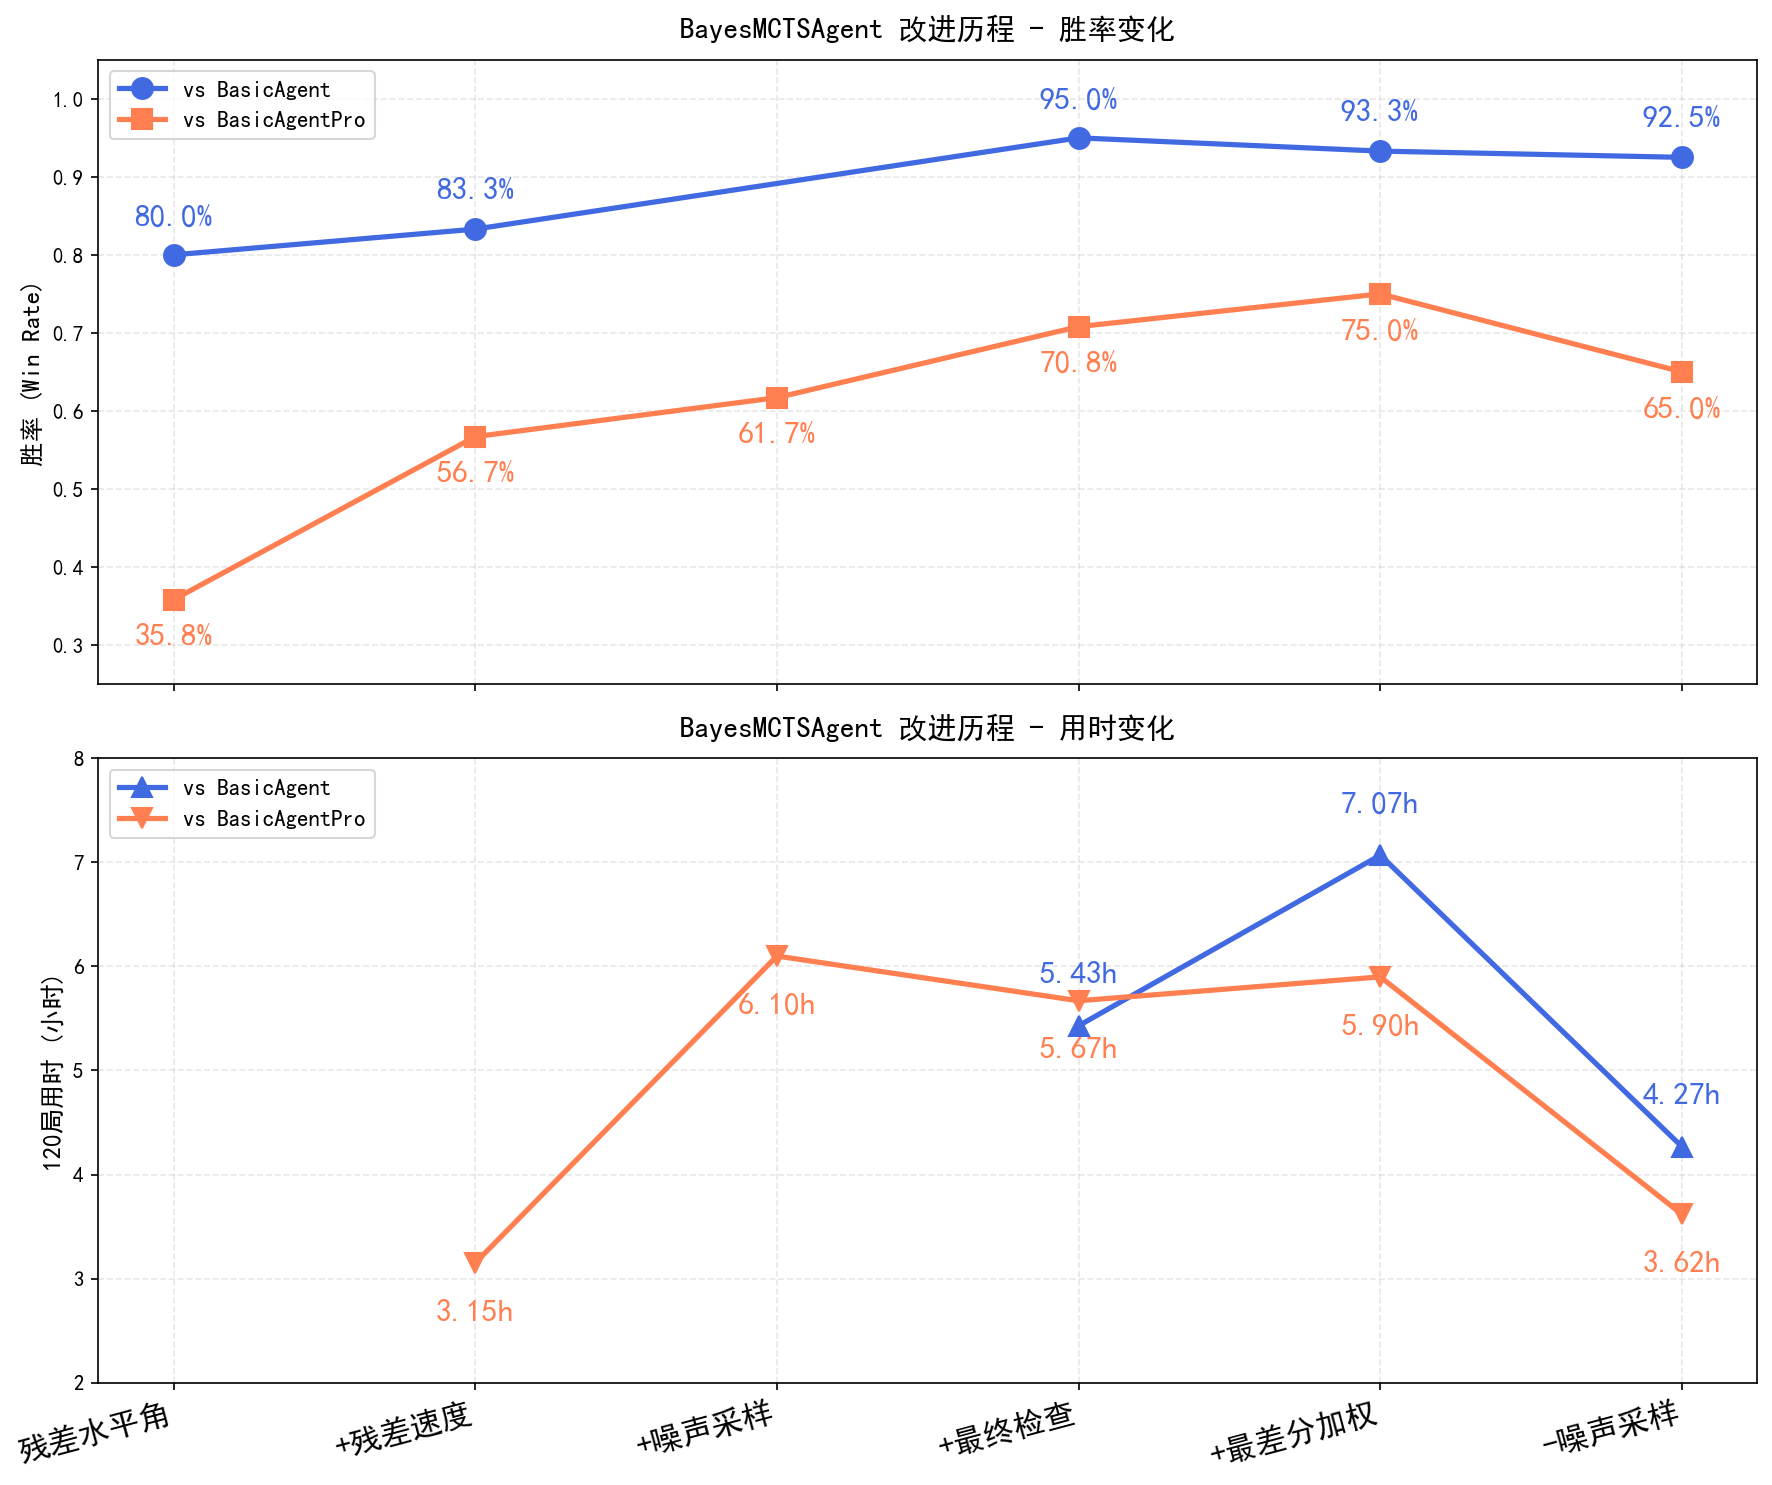
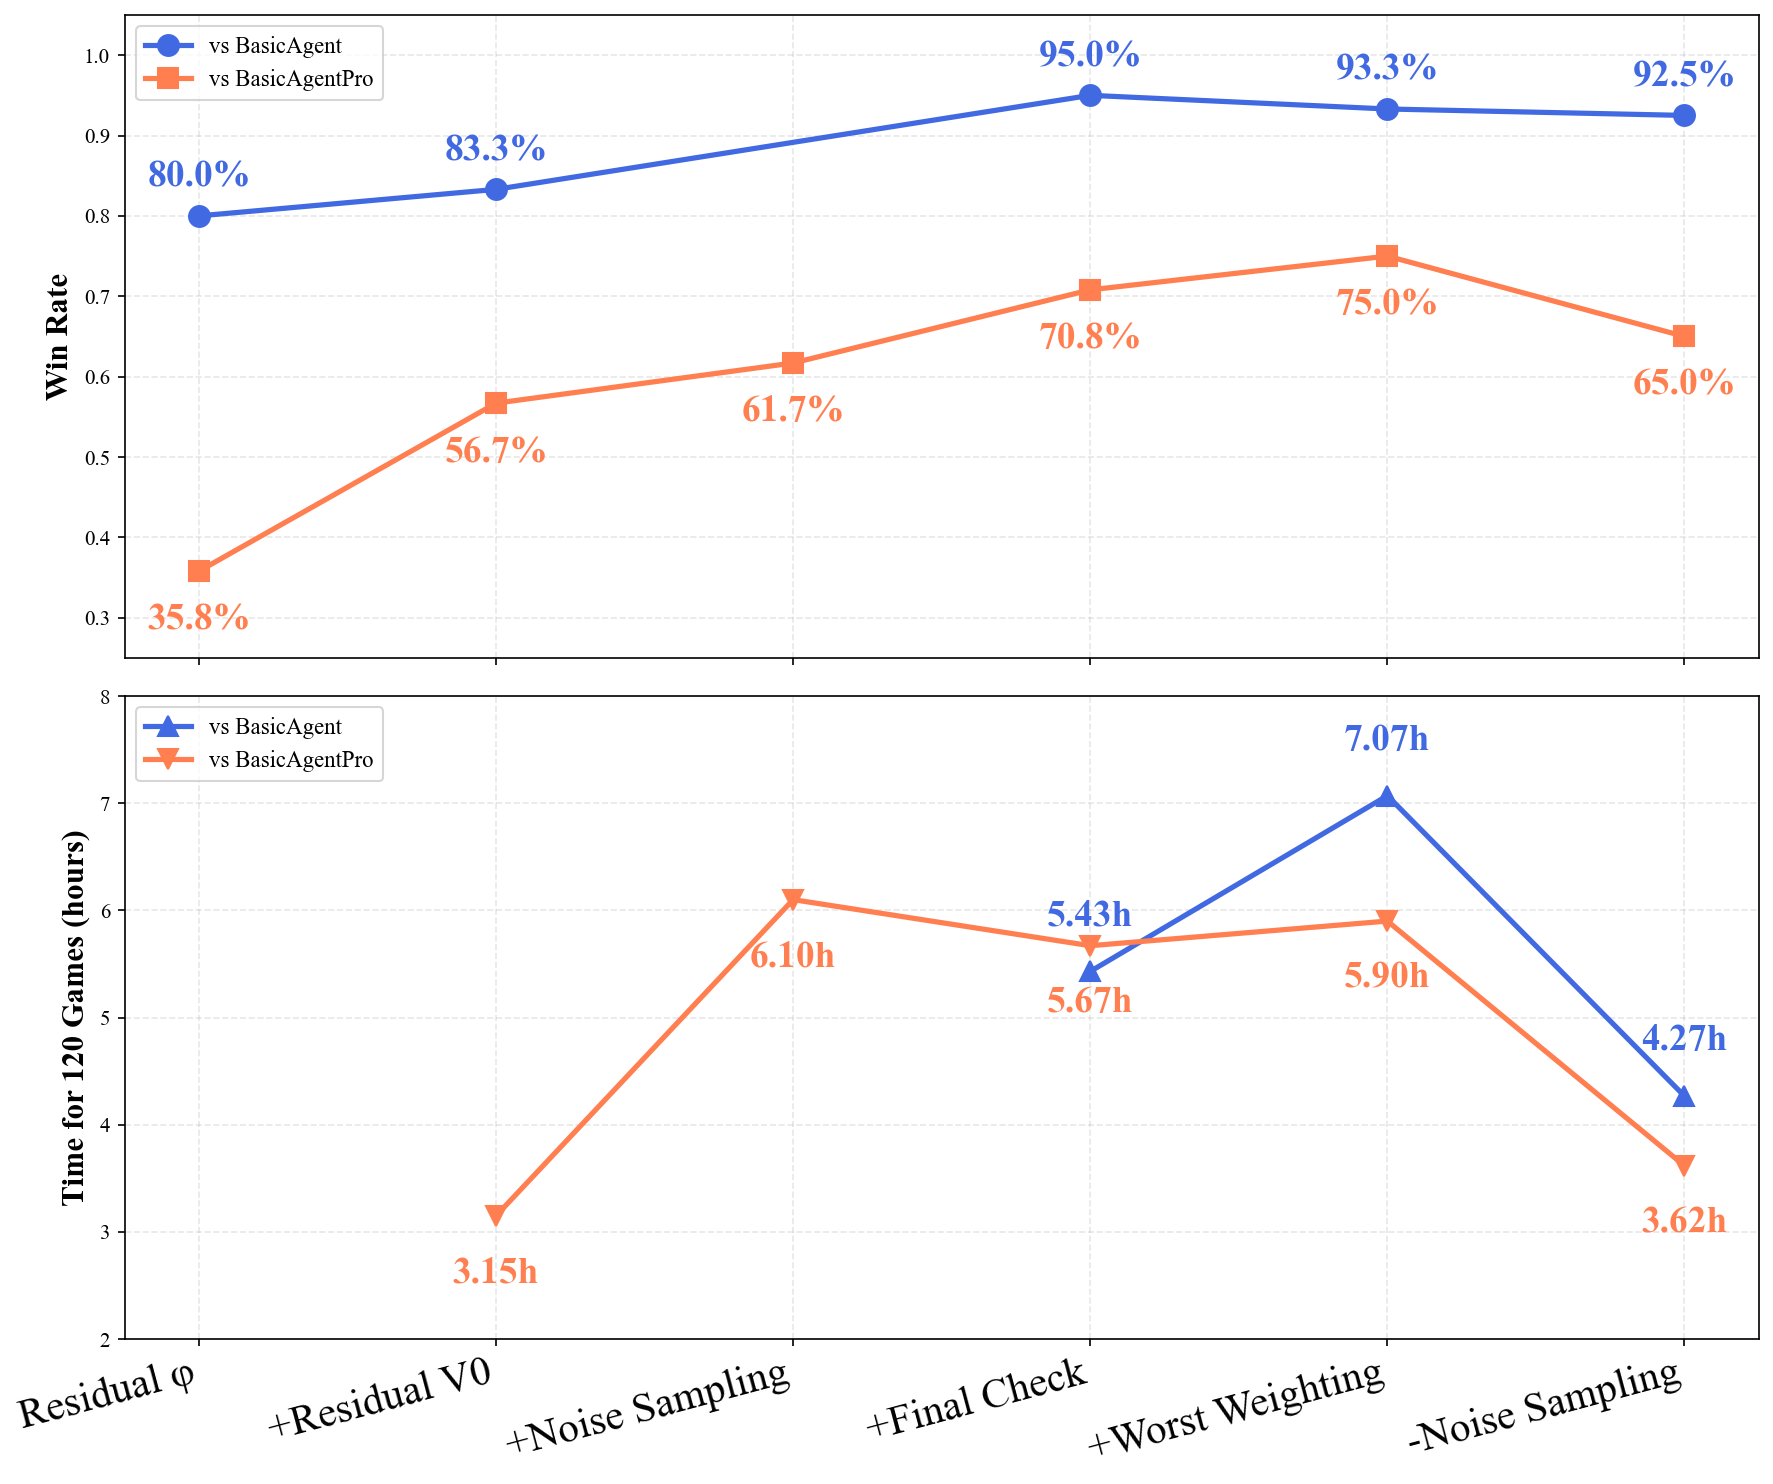
更新 README 文件，添加项目使用说明和里程图；新增分布图；优化绘图脚本，调整字体和注释格式

diff --git a/plot_progress.py b/plot_progress.py
@@ -6,18 +6,20 @@
 import matplotlib.pyplot as plt
 import numpy as np
 
-# 设置中文字体
-plt.rcParams['font.sans-serif'] = ['SimHei', 'Microsoft YaHei', 'DejaVu Sans']
+# 设置更漂亮的英文字体
+plt.rcParams['font.family'] = 'serif'
+plt.rcParams['font.serif'] = ['Times New Roman', 'DejaVu Serif', 'Georgia']
 plt.rcParams['axes.unicode_minus'] = False
+plt.rcParams['mathtext.fontset'] = 'stix'  # 数学符号使用STIX字体
 
 # x轴标签（改进版本）
 versions = [
-    "残差水平角",
-    "+残差速度", 
-    "+噪声采样",
-    "+最终检查",
-    "+最差分加权",
-    "-噪声采样"
+    "Residual φ",
+    "+Residual V0", 
+    "+Noise Sampling",
+    "+Final Check",
+    "+Worst Weighting",
+    "-Noise Sampling"
 ]
 x = np.arange(len(versions))
 
@@ -33,8 +35,7 @@ time_pro = [None, 3.15, 6.1, 5.67, 5.90, 3.617]
 fig, (ax1, ax2) = plt.subplots(2, 1, figsize=(12, 10), sharex=True)
 
 # ==================== 图1: 胜率 ====================
-ax1.set_ylabel('胜率 (Win Rate)', fontsize=12, fontweight='bold')
-ax1.set_title('BayesMCTSAgent 改进历程 - 胜率变化', fontsize=14, fontweight='bold', pad=10)
+ax1.set_ylabel('Win Rate', fontsize=15, fontweight='bold')
 
 # 绘制胜率线 - vs BasicAgent
 valid_idx_basic = [i for i, v in enumerate(win_rate_basic) if v is not None]
@@ -57,19 +58,17 @@ ax1.set_xticks(x)
 for i in valid_idx_basic:
     ax1.annotate(f'{win_rate_basic[i]:.1%}', (x[i], win_rate_basic[i]), 
                  textcoords="offset points", xytext=(0, 14), ha='center', 
-                 fontsize=15, color='royalblue', fontweight='bold')
+                 fontsize=18, color='royalblue', fontweight='bold')
 for i in valid_idx_pro:
     ax1.annotate(f'{win_rate_pro[i]:.1%}', (x[i], win_rate_pro[i]), 
-                 textcoords="offset points", xytext=(0, -22), ha='center',
-                 fontsize=15, color='coral', fontweight='bold')
+                 textcoords="offset points", xytext=(0, -28), ha='center',
+                 fontsize=18, color='coral', fontweight='bold')
 
 ax1.legend(loc='upper left', fontsize=11)
 ax1.grid(True, alpha=0.3, linestyle='--')
 
 # ==================== 图2: 用时 ====================
-ax2.set_ylabel('120局用时 (小时)', fontsize=12, fontweight='bold')
-ax2.set_title('BayesMCTSAgent 改进历程 - 用时变化', fontsize=14, fontweight='bold', pad=10)
-
+ax2.set_ylabel('Time for 120 Games (hours)', fontsize=15, fontweight='bold')
 # 绘制用时线 - vs BasicAgent
 valid_idx_time_basic = [i for i, v in enumerate(time_basic) if v is not None]
 valid_vals_time_basic = [v for v in time_basic if v is not None]
@@ -86,17 +85,17 @@ line4, = ax2.plot([x[i] for i in valid_idx_time_pro], valid_vals_time_pro,
 
 ax2.set_ylim(2, 8)
 ax2.set_xticks(x)
-ax2.set_xticklabels(versions, rotation=15, ha='right', fontsize=15)
+ax2.set_xticklabels(versions, rotation=15, ha='right', fontsize=20)
 
 # 在用时点上标注数值
 for i in valid_idx_time_basic:
     ax2.annotate(f'{time_basic[i]:.2f}h', (x[i], time_basic[i]), 
-                 textcoords="offset points", xytext=(0, 20), ha='center',
-                 fontsize=15, color='royalblue', fontweight='bold')
+                 textcoords="offset points", xytext=(0, 22), ha='center',
+                 fontsize=18, color='royalblue', fontweight='bold')
 for i in valid_idx_time_pro:
     ax2.annotate(f'{time_pro[i]:.2f}h', (x[i], time_pro[i]), 
-                 textcoords="offset points", xytext=(0, -28), ha='center',
-                 fontsize=15, color='coral', fontweight='bold')
+                 textcoords="offset points", xytext=(0, -32), ha='center',
+                 fontsize=18, color='coral', fontweight='bold')
 
 ax2.legend(loc='upper left', fontsize=11)
 ax2.grid(True, alpha=0.3, linestyle='--')
@@ -105,7 +104,7 @@ ax2.grid(True, alpha=0.3, linestyle='--')
 fig.tight_layout()
 
 # 保存图片
-plt.savefig('bayes_mcts_progress.png', dpi=150, bbox_inches='tight')
+plt.savefig('./assets/bayes_mcts_progress.png', dpi=150, bbox_inches='tight')
 print("图表已保存为 bayes_mcts_progress.png")
 
 # 显示图表

diff --git a/agents/new_agent.py b/agents/new_agent.py
@@ -81,7 +81,7 @@ class BayesMCTSAgent(Agent):
         # 优化参数 - 增加初始探索
         self.INITIAL_SEARCH = 20
         self.OPT_SEARCH = 10
-        self.NOISE_SAMPLES = 3  # 多次采样取平均
+        self.NOISE_SAMPLES = 1  # 多次采样取平均
         self.NOISE_JUDGES = 5 # 对最优结果多次评估
         self.EARLY_STOP_SCORE = 50
         self.ALPHA = 1e-2

diff --git a/README.md b/README.md
@@ -1,6 +1,14 @@
 # AI3603-Billiards
 AI3603课程台球大作业
 
+## 项目使用说明
+
+`evaluate.py`直接运行即可，`eval/evaluate_with_log.py`可以带参数`-o`指定与BasicAgent（`basic`）抑或BasicAgentPro（`pro`）对战，`-n`指定对战局数。
+
+里程图：
+![progress](assets/bayes_mcts_progress.png)
+
+
 ## 关键文件说明
 
 | 文件 | 作用 | 在最终测试中是否可修改 |
@@ -14,10 +22,5 @@ AI3603课程台球大作业
 对作业内容的视频说明：
 说明.mp4：https://pan.sjtu.edu.cn/web/share/da9459405eac6252d01c249c3bcb989f
 供大家参考，以文字说明为准。
-
-`evaluate.py`直接运行即可，`eval/evaluate_with_log.py`可以带参数`-o`指定与BasicAgent（`basic`）抑或BasicAgentPro（`pro`）对战，`-n`指定对战局数。
-
-里程图：
-![progress](assets/bayes_mcts_progress.png)
 
 ---
